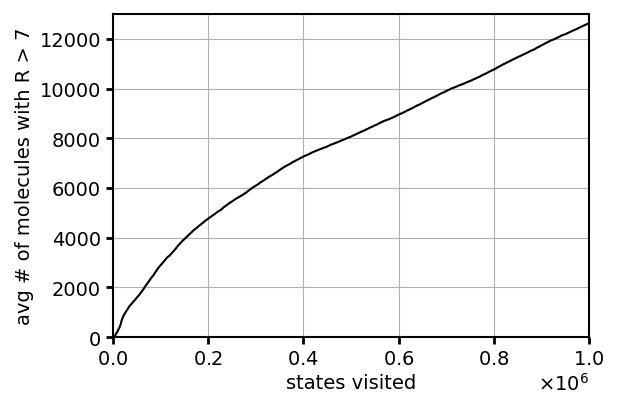
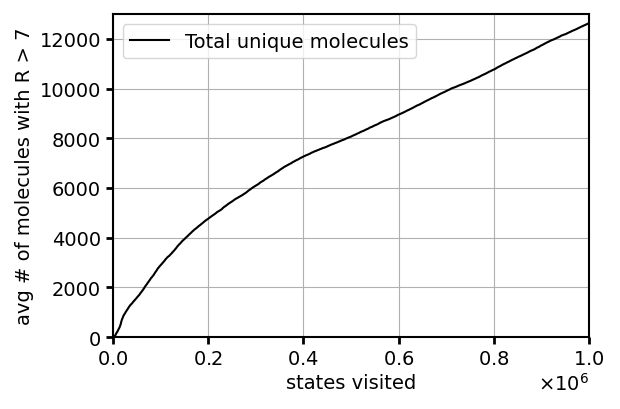
added legend to plot

Changed region(s): [[0.2758, 0.0587, 0.6742, 0.1467], [0.1839, 0.088, 0.2758, 0.1174]]

diff --git a/src/utils/plots.py b/src/utils/plots.py
@@ -340,7 +340,7 @@ def make_total_unique_molecules_plot(experiment_ids, T):
 
     fig, ax = plt.subplots(figsize=(6.2, 4.1))
 
-    plt.plot(steps,unique_molecules_avg, color="black",linestyle="-")
+    plt.plot(steps,unique_molecules_avg, color="black",linestyle="-", label="Total unique molecules")
 
     fontsize = 14
     plt.xlabel("states visited",fontsize=fontsize)
@@ -376,6 +376,8 @@ def make_total_unique_molecules_plot(experiment_ids, T):
     # and yaxis
     plt.gca().yaxis.set_tick_params(width=2, length=5)
     
+    plt.legend(loc="upper left",fontsize=fontsize)
+
     plt.tight_layout()
 
     figures_path = f"reports/figures/{experiment_ids[0]}"
